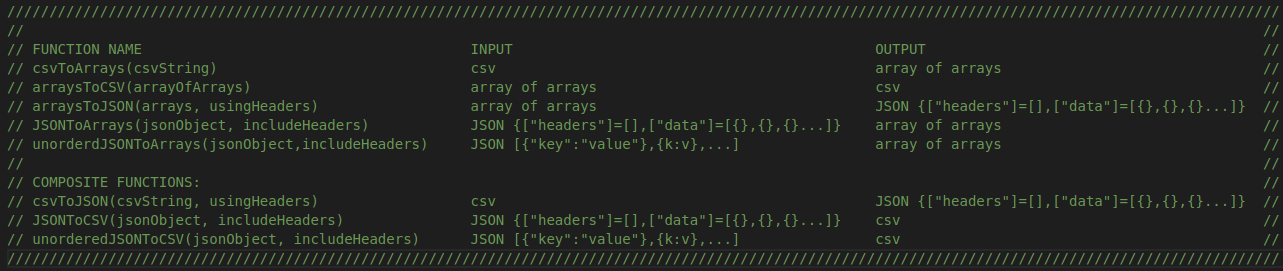
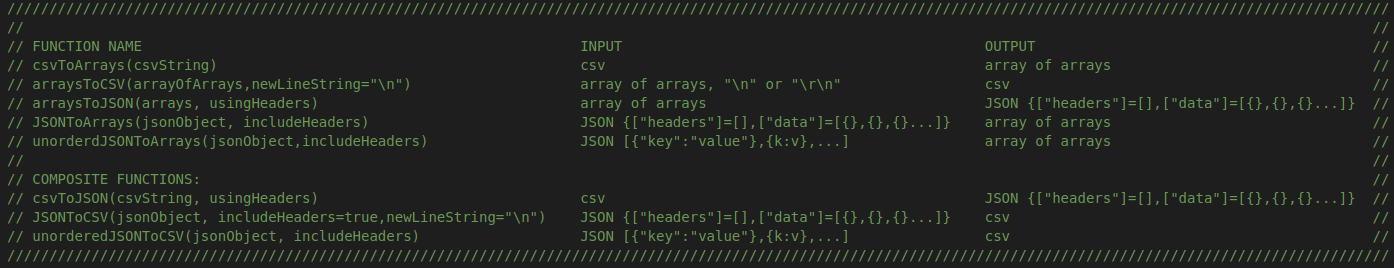
Add files via upload

diff --git a/csvreaderwriter.js b/csvreaderwriter.js
@@ -1,17 +1,17 @@
-///////////////////////////////////////////////////////////////////////////////////////////////////////////////////////////////////////////////////////
-//                                                                                                                                                   //
-// FUNCTION NAME                                       INPUT                                           OUTPUT                                        //
-// csvToArrays(csvString)                              csv                                             array of arrays                               //
-// arraysToCSV(arrayOfArrays)                          array of arrays                                 csv                                           //
-// arraysToJSON(arrays, usingHeaders)                  array of arrays                                 JSON {["headers"]=[],["data"]=[{},{},{}...]}  //
-// JSONToArrays(jsonObject, includeHeaders)            JSON {["headers"]=[],["data"]=[{},{},{}...]}    array of arrays                               //
-// unorderdJSONToArrays(jsonObject,includeHeaders)     JSON [{"key":"value"},{k:v},...]                array of arrays                               //
-//                                                                                                                                                   //
-// COMPOSITE FUNCTIONS:                                                                                                                              //
-// csvToJSON(csvString, usingHeaders)                  csv                                             JSON {["headers"]=[],["data"]=[{},{},{}...]}  //                                        
-// JSONToCSV(jsonObject, includeHeaders)               JSON {["headers"]=[],["data"]=[{},{},{}...]}    csv                                           //
-// unorderedJSONToCSV(jsonObject, includeHeaders)      JSON [{"key":"value"},{k:v},...]                csv                                           //
-///////////////////////////////////////////////////////////////////////////////////////////////////////////////////////////////////////////////////////
+////////////////////////////////////////////////////////////////////////////////////////////////////////////////////////////////////////////////////////////////////
+//                                                                                                                                                                //
+// FUNCTION NAME                                       				INPUT                                           OUTPUT                                        //
+// csvToArrays(csvString)                              				csv                                             array of arrays                               //
+// arraysToCSV(arrayOfArrays,newLineString="\n")       				array of arrays, "\n" or "\r\n"                 csv                                           //
+// arraysToJSON(arrays, usingHeaders)                  				array of arrays                                 JSON {["headers"]=[],["data"]=[{},{},{}...]}  //
+// JSONToArrays(jsonObject, includeHeaders)            				JSON {["headers"]=[],["data"]=[{},{},{}...]}    array of arrays                               //
+// unorderdJSONToArrays(jsonObject,includeHeaders)     				JSON [{"key":"value"},{k:v},...]                array of arrays                               //
+//                                                                                                                                                                //
+// COMPOSITE FUNCTIONS:                                                                                                                                           //
+// csvToJSON(csvString, usingHeaders)                  				csv                                             JSON {["headers"]=[],["data"]=[{},{},{}...]}  //                                        
+// JSONToCSV(jsonObject, includeHeaders=true,newLineString="\n")	JSON {["headers"]=[],["data"]=[{},{},{}...]}    csv                                           //
+// unorderedJSONToCSV(jsonObject, includeHeaders)      				JSON [{"key":"value"},{k:v},...]                csv                                           //
+////////////////////////////////////////////////////////////////////////////////////////////////////////////////////////////////////////////////////////////////////
 
 function _replaceRealCommasAndRealNewlinesInCSV(contents, commaReplacement, newlineReplacment) {
     let newContents = "";
@@ -43,6 +43,9 @@ function _replaceRealCommasAndRealNewlinesInCSV(contents, commaReplacement, newl
             newContents += thisChar;
         }
     }
+    //new added this will replace the "\r\n" with "\n", some programs
+    //use the \r\n (ms outlook for example) instead of \n
+    newContents.split("\r"+newLineReplacement).join(newLineReplacement);
     return (newContents);
 }
 
@@ -100,7 +103,7 @@ function csvToArrays(CSVString) {
     return myArray;
 }
 
-function arraysToCSV(arrayOfArrays) {
+function arraysToCSV(arrayOfArrays, newLineString="\n") {
     let CSVString = "";
     //go through each 'line'
     for (let i = 0; i < arrayOfArrays.length; i++) {
@@ -110,9 +113,9 @@ function arraysToCSV(arrayOfArrays) {
             CSVString += arrayOfArrays[i][j].split('"').join('""');
             CSVString += '",'
         }
-        CSVString = CSVString.slice(0, -1) + '\n'; //takes off last comma and adds new line
+        CSVString = CSVString.slice(0, -1) + newLineString; //takes off last comma and adds new line
     }
-    CSVString = CSVString.slice(0, -1); //takes off last \n character
+    CSVString = CSVString.slice(0, -(newLineString.length)); //takes off last \n character
     return CSVString;
 }
 
@@ -206,9 +209,9 @@ function csvToJSON(csvString, usingHeaders = true) {
     return jsonObject;
 }
 
-function JSONToCSV(jsonObject, includeHeaders = true) {
+function JSONToCSV(jsonObject, includeHeaders = true, newLineString="\n") {
     let arrays = JSONToArrays(jsonObject, includeHeaders);
-    let csvString = arraysToCSV(arrays);
+    let csvString = arraysToCSV(arrays, newLineString);
     return csvString;
 }
 
